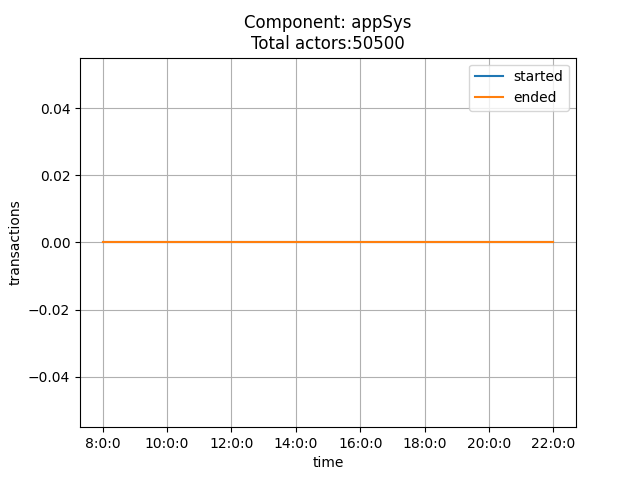
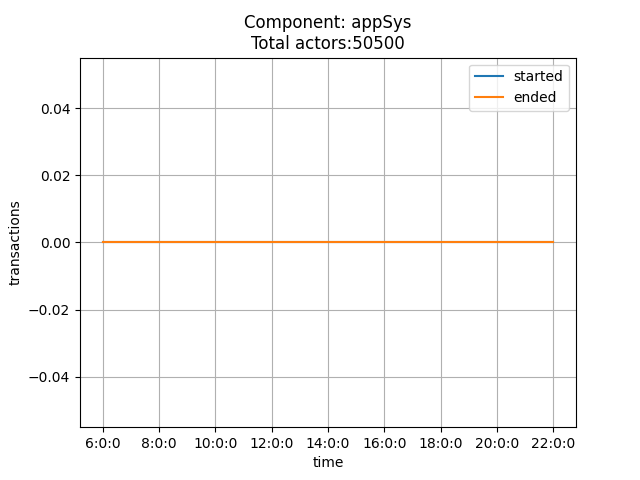
bugfix in schedule

Changed region(s): [[0.2188, 0.9062, 0.8125, 0.9375], [0.125, 0.9062, 0.1562, 0.9375]]

diff --git a/project/simulator.py b/project/simulator.py
@@ -62,12 +62,11 @@ class Simulator:
         self.components = []
         self.eventQueue = SortedList()  # SortedList based on events' timestamp
         self.schedules = {
-            "OP1": [0, 0, 0, 0, 0, 0, 0, 0, 0.10, 0.13, 0.13, 0.13, 0.07, 0.04, 0.12, 0.12, 0.12, 0.04, 0, 0, 0, 0,
-                    0,
+            "OP1": [0, 0, 0, 0, 0, 0, 0, 0, 0, 0.10, 0.13, 0.13, 0.13, 0.07, 0.04, 0.12, 0.12, 0.12, 0.04, 0, 0, 0, 0,
                     0],
-            "CU1": [0, 0, 0, 0, 0, 0, 0, 0, 0, 0.03, 0.06, 0.08, 0.08, 0.12, 0.06, 0.06, 0.08, 0.08, 0.08, 0.05,
+            "CU1": [0, 0, 0, 0, 0, 0, 0, 0, 0, 0, 0.03, 0.06, 0.08, 0.08, 0.12, 0.06, 0.06, 0.08, 0.08, 0.08, 0.05,
                     0.10,
-                    0.07, 0.05, 0]}
+                    0.07, 0.05]}
         self.time = 0
 
     def componentNamed(self, aString):

diff --git a/project/main.py b/project/main.py
@@ -70,7 +70,7 @@ print('\nOutput generation in progress...')
 
 for c in s.getInstance().components:
     # we take transactions from 8am to 10pm with step of 1 hour
-    c.txsInInterval(28800000, 82800000, 3600000, './report/components/' + c.name + '_transactions_actors_'+ str(total_actors)+'.csv')
+    c.txsInInterval(21600000, 82800000, 3600000, './report/components/' + c.name + '_transactions_actors_'+ str(total_actors)+'.csv')
     df = pd.read_csv('./report/components/' + c.name + '_transactions_actors_' + str(total_actors)+'.csv', sep=',')
     df.plot(x='time', y=['started', 'ended'])
     plt.ylabel('transactions')
